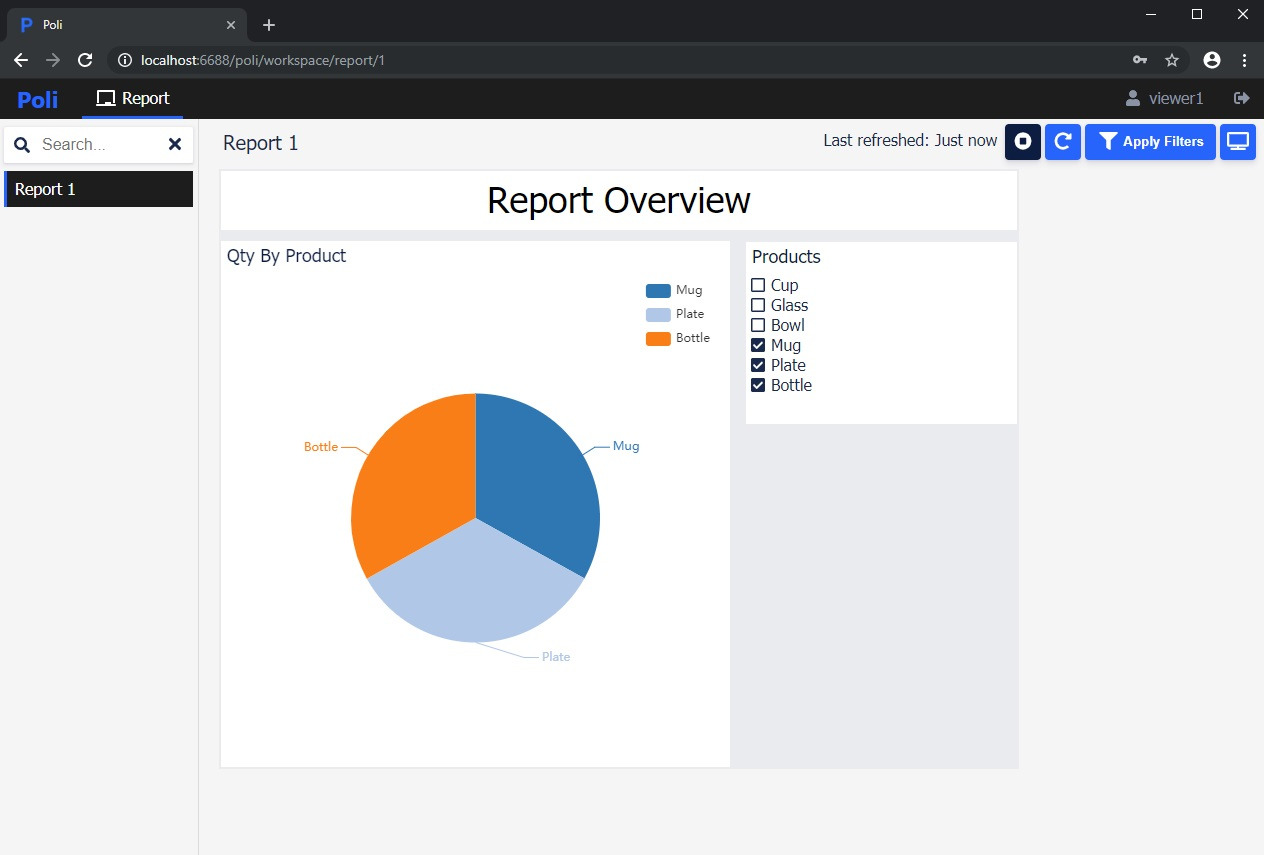
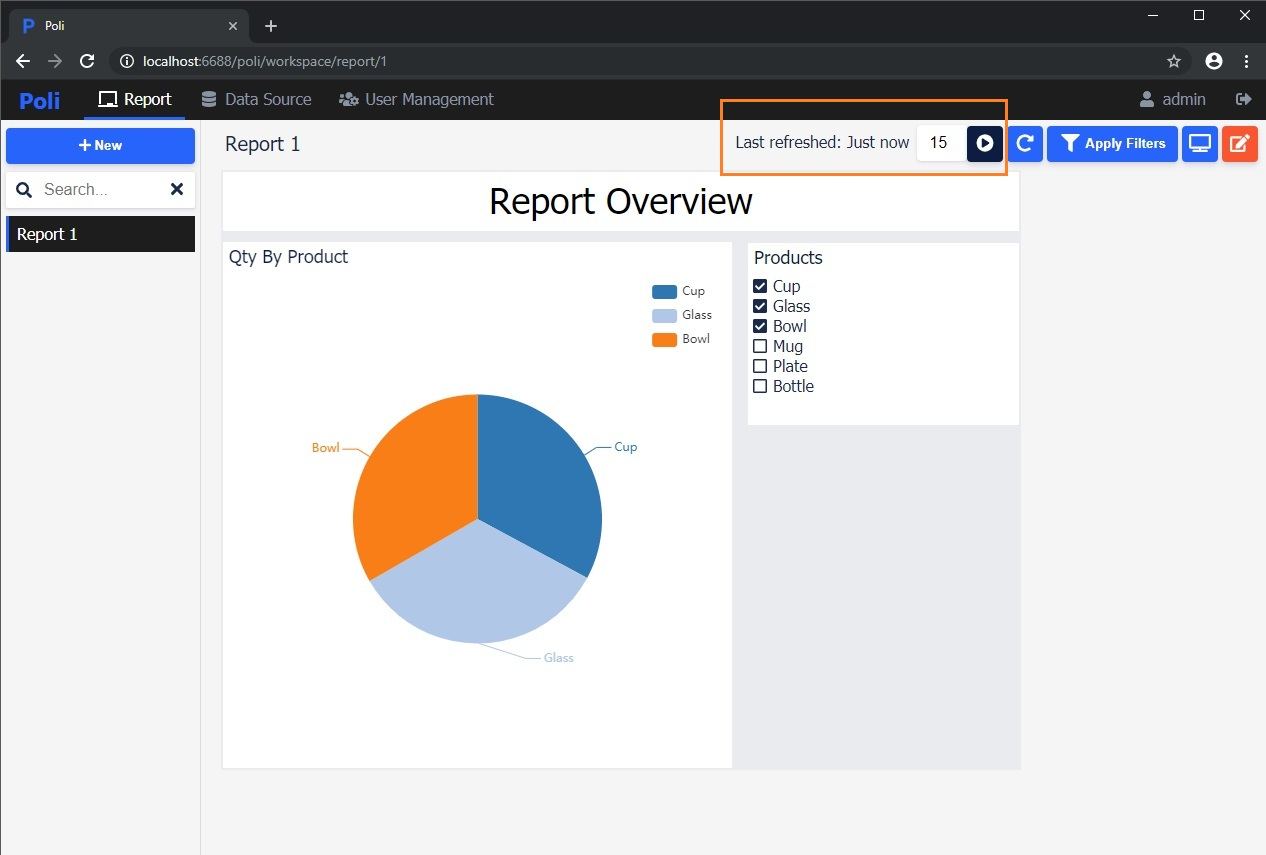
Doc

diff --git a/docs/quick-start.md b/docs/quick-start.md
@@ -2,120 +2,133 @@
   
 ## First time login
 
-Open  http://localhost:6688/poli/login in chrome.
+1. Open http://localhost:6688/poli/login in the browser.
 
 ![login](_images/screenshots/login.jpg)
 
-Use the default login credentials.
+2. Use the default login credentials.
 
-* username: admin
-* password: adminadmin
+	* username: admin
+	* password: adminadmin
 
 ![login2](_images/screenshots/login2.jpg)
 
-Enter a new password and login again.
+3. Enter a new password and login again.
 
 ![login3](_images/screenshots/login3.jpg)
 
 ## Create a datasource
 
-Enter the data source connection information.
+1. Go to Data Source tab. Click new button and enter the data source connection information.
 
 ![ds1](_images/screenshots/ds1.jpg)
 
-Click ping button to test the connection.
+2. Click save button and use ping button to verify the connection.
 
 ![ds2](_images/screenshots/ds2.jpg)
 
 ## Create a report
 
-Click report tab and be ready to create the first report!
+1. Go to Report tab.
 
 ![report1](_images/screenshots/report1.jpg)
 
-Enter the report name.
+2. Click new button and enter the report name.
 
 ![report2](_images/screenshots/report2.jpg)
 
-Click save button. A new report is created!
+3. Click save button. A new empty report is created!
 
 ![report3](_images/screenshots/report3.jpg)
 
-
-create table transaction (
-	create_date TIMESTAMP,
-	category varchar(100),
-	amount NUMERIC(10, 2)
-)
-
 ## Create a static component
 
-Let's create a text box here. Click the edit button to enter report edit mode.
+1. Let's add a text box to the report first. Click the edit button to enter report edit mode.
+
+> In report edit mode, the style of report can be modified through changing the attributes in the panel on the left side.
 
 ![report4](_images/screenshots/report4.jpg)
 
-Click new component button. Select static and text. Enter the value under config tab.
+2. Click new component button. Select static and text. Enter the text value under config tab.
 
 ![report4_1](_images/screenshots/report4_1.jpg)
 
-Click save button. A new text box is created!
+3. Click save button. A new text box is created!
+
+> The component can be repositioned by dragging the title or be resized by dragging the icon in the bottom right corner.  
 
 ![report5](_images/screenshots/report5.jpg)
 
 ## Create a chart component
 
-Let's create a pie chart here. Click new component button. Select chart and pie.
+1. Let's add a pie chart to the report. Click new component button. Select chart and pie.
 
 ![report6](_images/screenshots/report6.jpg)
 
-Choose a data source and enter a query.
+2. Choose a data source and enter a query.
+
+> Pie chart requires the query to return at least two columns.
 
 ![report7](_images/screenshots/report7.jpg)
 
-Go to config tab and select the key vand value for pie chart.
+3. Go to config tab and select the key vand value for pie chart.
 
 ![report8](_images/screenshots/report8.jpg)
 
-Click save button. A new pie chart is created!
+4. Click save button. A new pie chart is created!
 
 ![report9](_images/screenshots/report9.jpg)
 
 ## Create a filter component
 
-Let's create a slicer here. Click new component button. Select filter and slicer. Choose a data source and enter a query.
+1. Let's add a slicer to the report to make it interactive. Click new component button. Select filter and slicer. Choose a data source and enter a query.
+
+> Slicer requires the query to return one column only.
 
 ![report10](_images/screenshots/report10.jpg)
 
-Go to config tab and assign a value to the query parameter.
+2. Go to config tab and assign a value to the query parameter.
 
 ![report11](_images/screenshots/report11.jpg)
 
-Click save button. A new sclier is created!
+3. Click save button. A new sclier is created!
 
 ![report12](_images/screenshots/report12.jpg)
 
-Now it is time to link the slicer and pie chart together. Edit the pie chart query here to include the query parameter.
+4. Now it is time to link the slicer and pie chart together. Edit the pie chart query here to include the query parameter.
 
 ![report13](_images/screenshots/report13.jpg)
 
-Save the report. Select the check box in slicer and click apply filters button. The data in pie chart is being filtered! 
+5. Save the report. Select the check box in slicer and click apply filters button. The data in pie chart is being filtered by the slicer!
 
 ![report14](_images/screenshots/report14.jpg)
 
 ## Create a group
 
+1. Go to User Management -> Group tab. Click new button. Enter a new group name and assign Report 1 to the group.
+
 ![group1](_images/screenshots/group1.jpg)
+
+2. Click save button. A new group is created! 
 
 ![group2](_images/screenshots/group2.jpg)
 
 ## Create a user
 
-![user1](_images/screenshots/user2.jpg)
+1. Go to User tab. Click new button. Enter a new username, assign viewer role and the group created above.
+
+![user1](_images/screenshots/user1.jpg)
+
+2. Click save button. A new user with viewer role is created!
 
 ![user2](_images/screenshots/user2.jpg)
 
 ## View the report
 
+1. Log in by using viewer 1 credentials.
+
 ![user3](_images/screenshots/user3.jpg)
+
+2. The report assigned to the group is being displayed!
 
 ![user4](_images/screenshots/user4.jpg)

diff --git a/docs/report-component.md b/docs/report-component.md
@@ -12,6 +12,8 @@
 
 > After modifying the style, don't forget to click the save button to save the changes.
 
+![style2](_images/screenshots/style2.jpg)
+
 ## Types
 
 Poli supports three types of components.
@@ -24,14 +26,25 @@ Poli supports three types of components.
 * Chart
   * Table
   * Pie
+    
+    > Pie chart requires the query to return at least two columns.
+
   * Bar
+
+    > Line chart requires the query to return at least two columns. One for X-axis (Key). The other for Y-axis (Value).
+
   * Line
+
+    > Line chart requires the query to return at least two columns. One for X-axis (Key). The other for Y-axis (Value).
+
   * Area
+
+    > Area chart requires the query to return at least two columns. One for X-axis (Key). The other for Y-axis (Value).
 
 * Filter
   * Slicer
 
-  > Slicer should always return a list of values in the query.
+    > Slicer provides a list of values to select. It requires the query to return one column only.
   
   * Single value
 
@@ -91,20 +104,24 @@ WHERE 1 = 1
 
 ## Drill through
 
-Navigate from one widget to another Report with a query parameter being passed along.
+1. Drill through is used to navigate from one component in a Report to another Report. To use it in Poli, you need to have at least two reports.
 
 ![drillthrough1](_images/screenshots/drillthrough1.jpg)
 
+2. Create a pie chart in Report 1. Go to Drill Through tab. Choose the source column and destination report.
+
 ![drillthrough2](_images/screenshots/drillthrough2.jpg)
 
-![drillthrough3](_images/screenshots/drillthrough3.jpg)
-
-![drillthrough4](_images/screenshots/drillthrough4.jpg)
-
+3. Click the Cup piece on the pie chart.
 
 > If this component has drill through defined, there will be a --> icon on the title bar.
 
+![drillthrough3](_images/screenshots/drillthrough3.jpg)
 
-## Permissions
+4. Report 2 is being displayed and product=Cup is passed along to Report 2. If there are any chart components on Report 2 that use :product query parameter in the query will become reactive.
+
+![drillthrough4](_images/screenshots/drillthrough4.jpg)
+
+## Access permissions
 
 Reports can be edited by Admin/Developer users, associated with a Group and viewed by all users. Check [User Management](/user-management) for more details.

diff --git a/docs/report.md b/docs/report.md
@@ -12,23 +12,29 @@ Reports are built with components in Poli that provide insights from the data th
   > Fixed width vs full width: full width scales the components based on the screen width.
 * Background color
 
+![style1](_images/screenshots/style1.jpg)
+
 ## Auto refresh
 
-Enable report auto refresh. The refresh rate is in seconds. This will query and refresh the chart data every X seconds. 
+Click the auto refresh button to enable report auto refresh. 
+
+> The refresh rate is in seconds.
 
 ![autorefresh](_images/screenshots/autorefresh.jpg)
 
 ## Full screen
 
-The Report will be opened in a new browser tab in the full screen mode.
+1. Click the full screen button.
 
-![fullscreen](_images/screenshots/fullscreen.jpg)
+![fullscreen1](_images/screenshots/fullscreen1.jpg)
+
+2. The Report will be opened in a new browser tab in the full screen mode.
+
+![fullscreen2](_images/screenshots/fullscreen2.jpg)
 
 ## Embedded
 
 This mode allows the Report to be embedded into another application. The report data can be dynamically changed if dynamic queries are used to build the chart components. The query parameter can be passed by url search parameters. 
-
-![apikey](_images/screenshots/apikey.jpg)
 
 ![apikey2](_images/screenshots/apikey2.jpg)
 
@@ -47,6 +53,8 @@ There are four url search parameters in this example.
 
   Required. 123 is the api key. The api key can be obtained from the account page.
 
+  ![apikey](_images/screenshots/apikey.jpg)
+
 * year=2019
 
   Optional. Year is the query parameter. 2019 is the value. Any components that use :year parameter in the query will become reactive.
@@ -59,3 +67,4 @@ There are four url search parameters in this example.
 * $showControl=true
 
   Optional. Whether to display the title bar with control panel.
+

diff --git a/docs/user-management.md b/docs/user-management.md
@@ -4,30 +4,32 @@
 
 There are three types of system roles in Poli. Each user account requires to be assigned a system role when the account is created.
 
-#### Admin
-* Manage dashboards
+#### Admin 
+
+* Only one per instance. Cannot be created.
+* Manage reports
 * Manage datasources
 * Manage users
 
 #### Developer
-* Manage dashboards
+* Manage reports
 * Manage datasources
 * Manage users in Viewer Role
 
 #### Viewer
-* Access dashboards
+* Access reports
 
 ## Group
 
-Group is used to control the access level to dashboards for Viewer user. Dashboards can be assigned to Group so the users in Viewer Role who belong to that group can have access.
+Group is used to control the access level to reports for Viewer user. Reports can be assigned to Group so the users in Viewer Role who belong to that group can have access.
 
 For example:
 
 ```
 * User u1 belongs to Group g1
 * User u2 belongs to Group g2
-* Dashboard d1 is assigned to Group g1
-* Dashboard d1, d2 and d3 are assigned to Group g2
-* User u1 has access to Dashboard d1 only
-* user u2 has access to Dasbhoard d1, d2 and d3
+* Report r1 is assigned to Group g1
+* Report r1, r2 and r3 are assigned to Group g2
+* User u1 has access to Report r1 only
+* user u2 has access to Report r1, r2 and r3
 ```

diff --git a/README.md b/README.md
@@ -14,7 +14,7 @@ Poli is an easy-to-use SQL reporting application.
 * Self-hosted, easy deployment & setup
 * Connect to any database supporting JDBC drivers
 * Build chart and filter in Dynamic SQL query
-* flexible report and chart styling
+* Flexible report and chart styling
 * Interactive reports with auto refresh, drill through, fullscreen, embedded and more
 
 ## Download

diff --git a/docs/installation.md b/docs/installation.md
@@ -17,13 +17,13 @@ Java Runtime 1.8+
     |-- db
         |-- poli.db
     |-- jdbc-drivers
-    |-- poli.jar
+    |-- poli-x.y.z.jar
     |-- start.sh
     |-- start.bat
     |...
 ```
 
-3. Modify the poli.properties file
+3. Modify the poli.properties file.
 
 Poli.db is the SQLite database used by the application. It is pre-loaded with database schema and ready to use.
 

diff --git a/docs/_coverpage.md b/docs/_coverpage.md
@@ -5,7 +5,7 @@
 - Self-hosted, easy deployment & setup
 - Connect to any database supporting JDBC drivers
 - Build chart and filter in Dynamic SQL query
-- flexible report and chart styling
+- Flexible report and chart styling
 - Interactive reports with auto refresh, drill through, fullscreen, embedded and more
 
 [GitHub](https://github.com/shzlw/poli)

diff --git a/docs/_sidebar.md b/docs/_sidebar.md
@@ -1,4 +1,4 @@
-- Getting started
+- Getting Started
 
   - [Installation](installation.md)
   - [Quick Start](quick-start.md)
